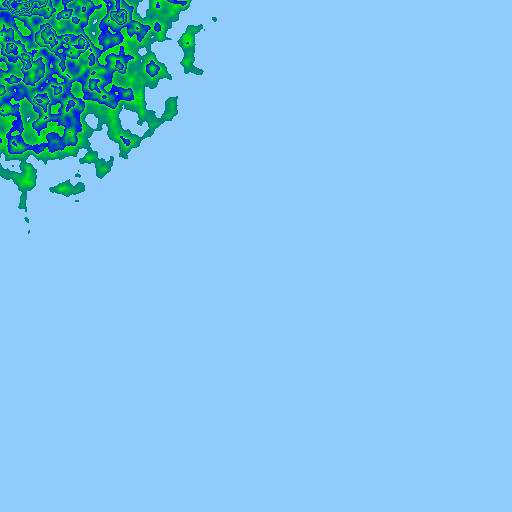
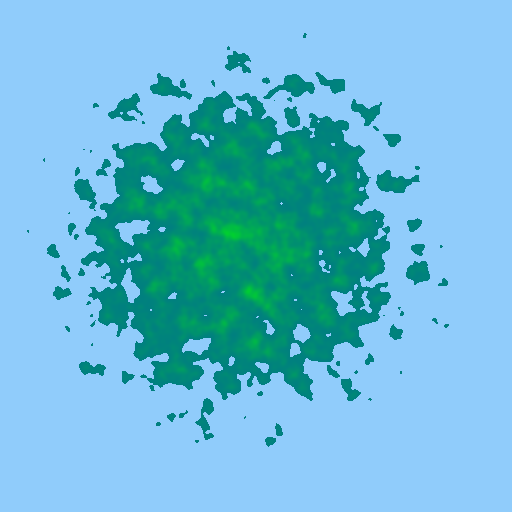
now island in a center

diff --git a/src/com/gura/Main.java b/src/com/gura/Main.java
@@ -24,10 +24,10 @@ public class Main {
         {
             for (int x = 0; x < WIDTH; x++)
             {
-                double nx = x / FEATURE_SIZE - 0.5, ny = y / FEATURE_SIZE - 0.5;
+                double nx = x / FEATURE_SIZE - 10, ny = y / FEATURE_SIZE - 10;
 
                 double d = sqrt(nx*nx + ny*ny) / sqrt(50);
-                d = pow(d, 2);
+                d = pow(d, 1.5);
 
                 double e = noise.noise( nx, ny)
                         + 0.5 * noise.noise(2 * nx, 2 * ny)
